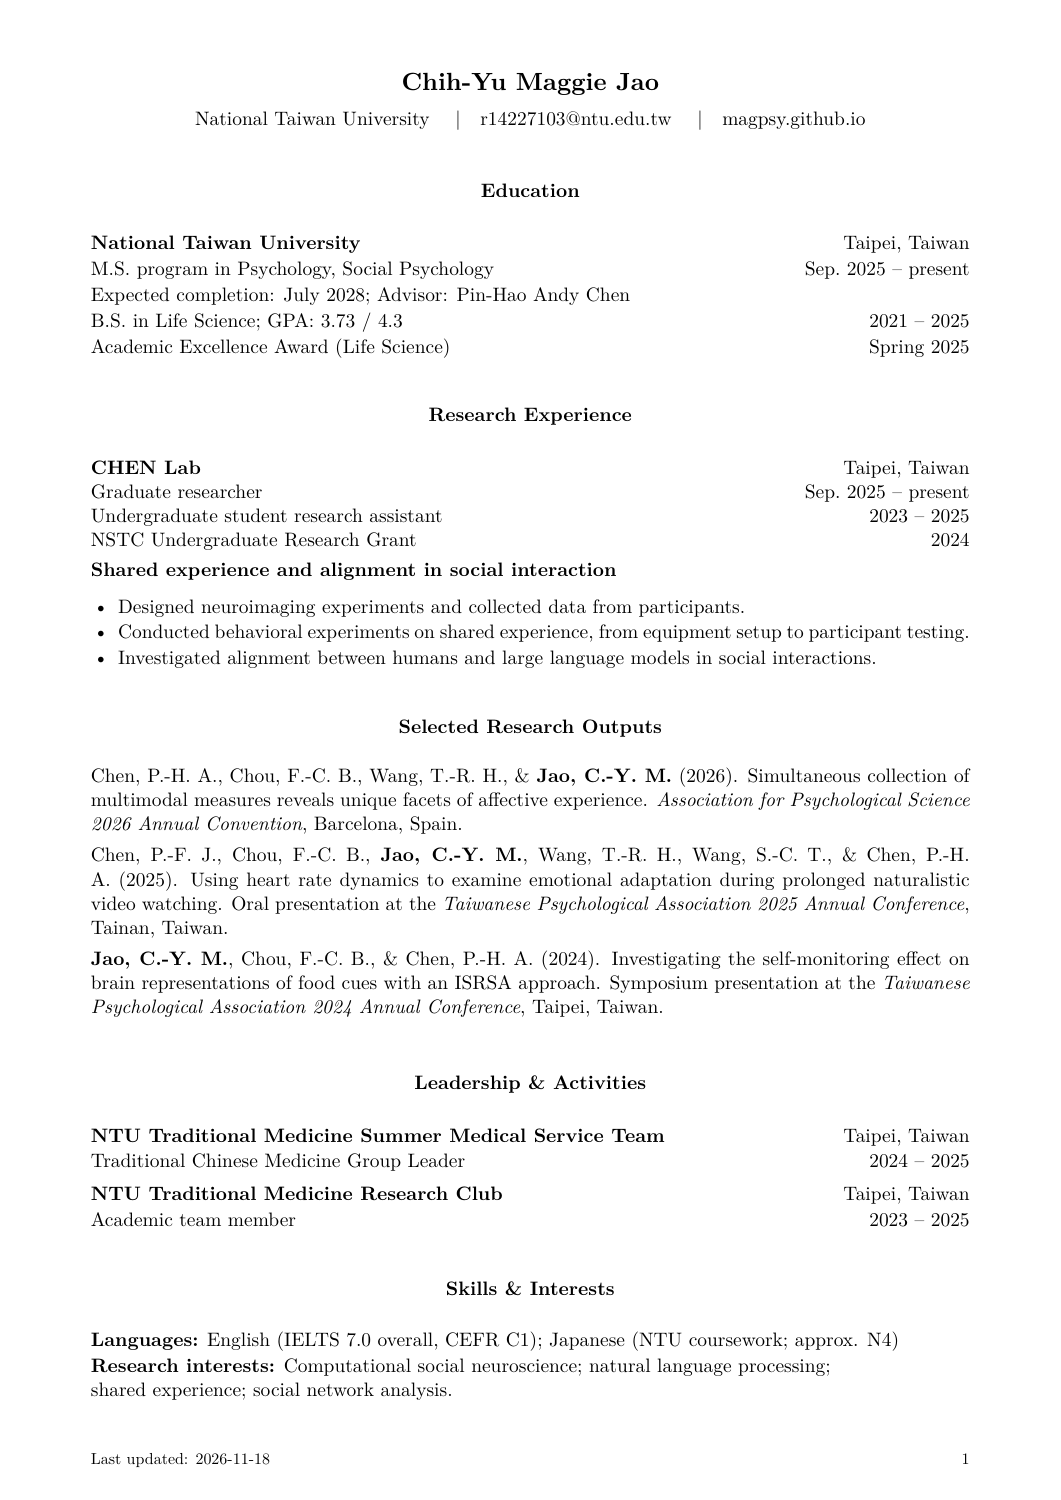
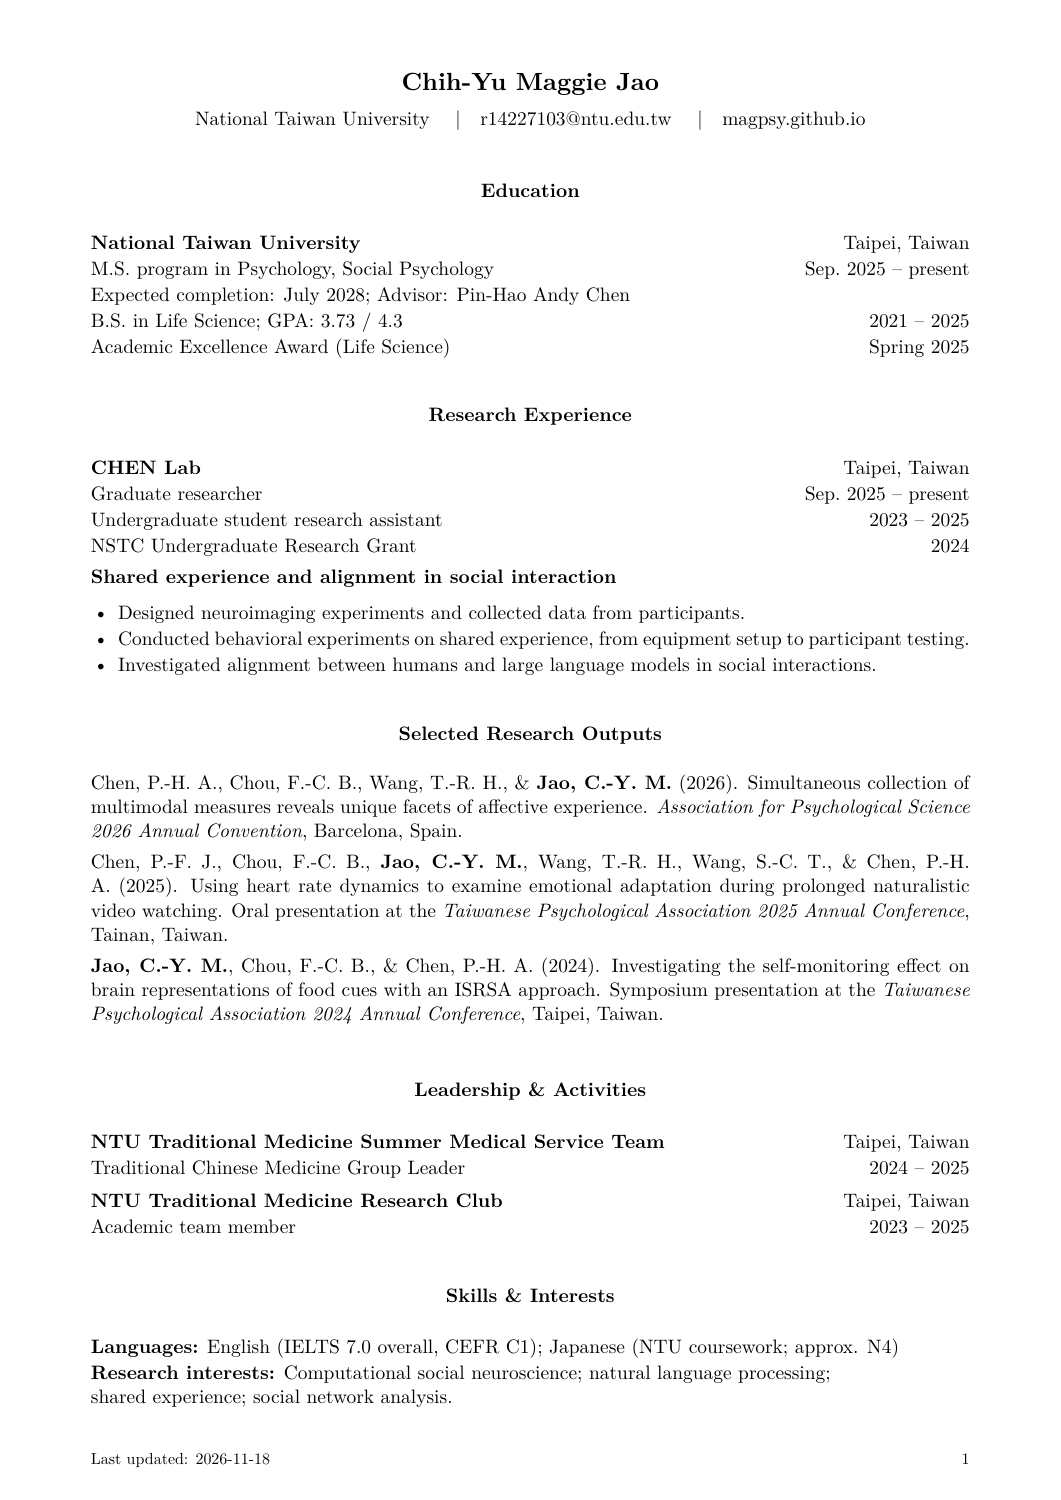
Match research experience row spacing to education

diff --git a/index.html b/index.html
@@ -20,12 +20,12 @@
   <header>
     <div class="heading">
       <h1>Chih-Yu Maggie Jao · Curriculum Vitae</h1>
-      <a href="CV-OnePage.pdf?v=16b0961f6af0">Open / download one-page PDF</a>
+      <a href="CV-OnePage.pdf?v=4b580ab23640">Open / download one-page PDF</a>
     </div>
   </header>
   <main aria-label="Curriculum vitae of Chih-Yu Maggie Jao, one page">
-    <a href="CV-OnePage.pdf?v=16b0961f6af0" aria-label="Open one-page CV PDF">
-      <img src="CV-OnePage-page-1.png?v=16b0961f6af0" alt="CV: education, research experience, selected research outputs, leadership, languages and interests" width="1061" height="1500">
+    <a href="CV-OnePage.pdf?v=4b580ab23640" aria-label="Open one-page CV PDF">
+      <img src="CV-OnePage-page-1.png?v=4b580ab23640" alt="CV: education, research experience, selected research outputs, leadership, languages and interests" width="1061" height="1500">
     </a>
   </main>
 </body>
